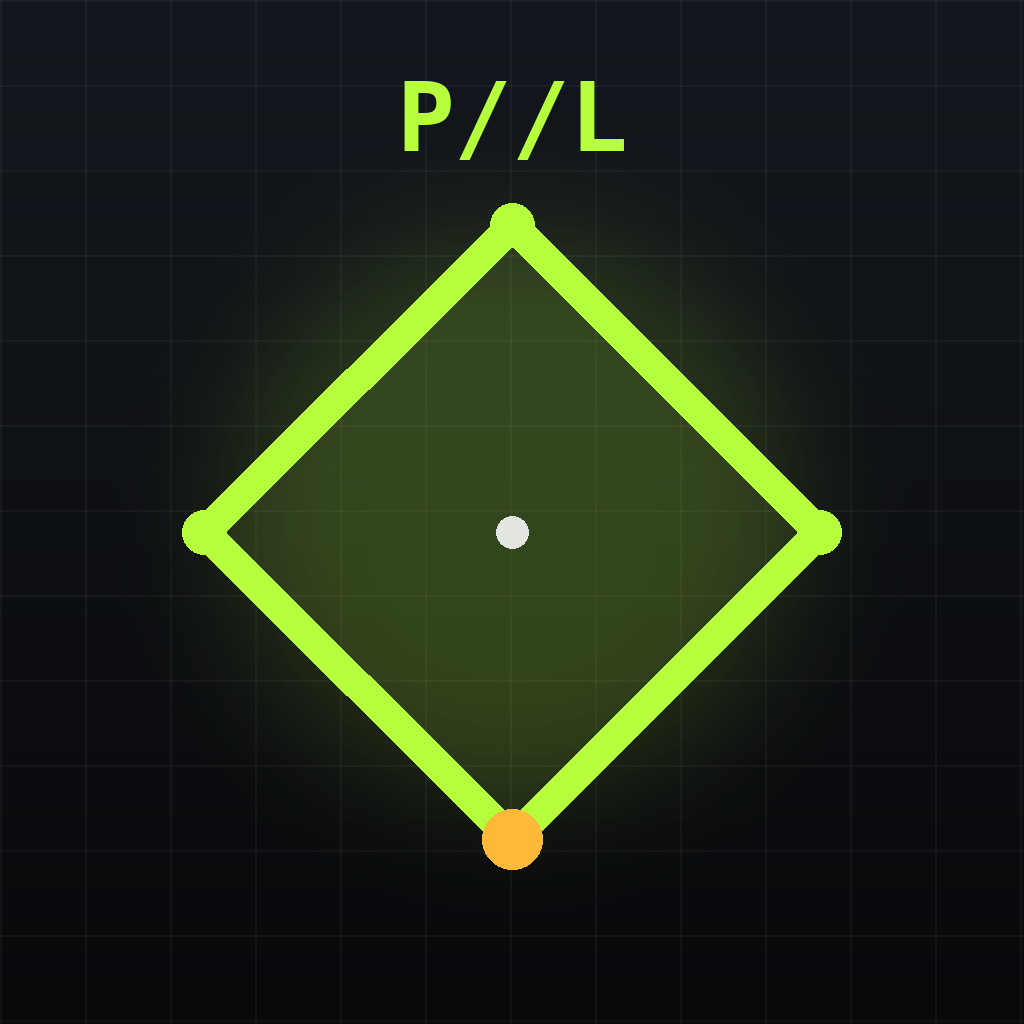
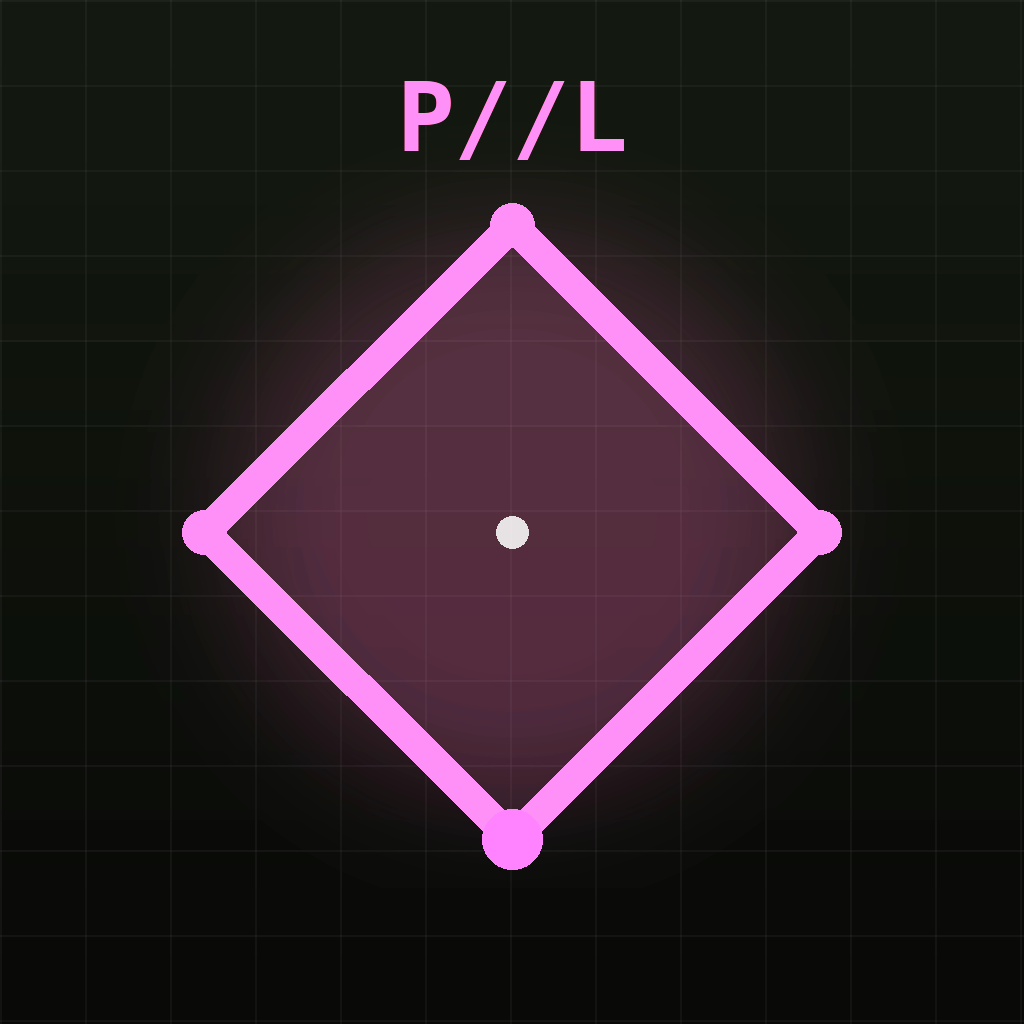
Brand: the whole site goes hot pink to match the llama footage
Josh: "the whole website should match the new color of the background.
it was green with the green llama." Surfaces hue 330, --color-pos
#ff5fb8, violet-magenta-pink brand gradient, every lime glow retinted,
Board/Ballpark tab tones, PWA theme colour, app icons recoloured. The
acc-teal/acc-green/acc-lime token names are kept as names.

diff --git a/app/globals.css b/app/globals.css
@@ -1,20 +1,21 @@
 @import "tailwindcss";
 
 /* ---------------------------------------------------------------------------
-   Parlay Lab design tokens — immersive deep-green liquid glass (the classic
-   Parlay Lab electric-green identity on the new immersive shell). Geist Sans
-   body, General Sans display. One accent per meaning: electric green =
+   Parlay Lab design tokens — immersive deep-pink liquid glass. Josh (2026-09-18):
+   "the whole website should match the new color of the background" — the llama
+   footage plays in its native pink, so the brand is hot pink now (was electric green). Geist Sans
+   body, General Sans display. One accent per meaning: hot pink =
    +EV/wins, red-orange = −EV/losses, gold = the Caesars layer, ice = live.
 --------------------------------------------------------------------------- */
 
 @theme {
-  /* surfaces — deep green-black stack */
-  --color-bg: hsl(160 45% 3%);
-  --color-surface: hsl(160 28% 7%);
-  --color-surface-2: hsl(160 23% 10%);
-  --color-surface-3: hsl(160 19% 13%);
-  --color-line: hsl(160 16% 16%);
-  --color-line-2: hsl(160 13% 22%);
+  /* surfaces — deep pink-black stack (hue 330, was 160) */
+  --color-bg: hsl(330 45% 3%);
+  --color-surface: hsl(330 28% 7%);
+  --color-surface-2: hsl(330 23% 10%);
+  --color-surface-3: hsl(330 19% 13%);
+  --color-line: hsl(330 16% 16%);
+  --color-line-2: hsl(330 13% 22%);
 
   /* text — warm off-white (hsl 40 6% 95%) */
   --color-text: hsl(40 6% 95%);
@@ -22,18 +23,20 @@
   --color-muted: hsl(40 5% 65%);
   --color-faint: hsl(40 4% 45%);
 
-  /* gradient accent (brand): teal → green → electric lime */
-  --color-acc-teal: #14b8a6;
-  --color-acc-green: #22c55e;
-  --color-acc-lime: #b6ff3d;
+  /* gradient accent (brand): violet → magenta → hot pink. The token NAMES are kept
+     (acc-teal / acc-green / acc-lime) because classes and tests key on them —
+     they are names, not colours, since 2026-09-18. */
+  --color-acc-teal: #a855f7;
+  --color-acc-green: #ec4899;
+  --color-acc-lime: #ff5fb8;
 
   /* semantics — the classic Parlay Lab set */
-  --color-pos: #b6ff3d; /* electric green — +EV, wins, edges */
+  --color-pos: #ff5fb8; /* hot pink — +EV, wins, edges (electric green until 2026-09-18) */
   --color-neg: #ff5c45; /* red-orange — −EV, losses */
   --color-gold: #c79a3b; /* muted gold — Caesars layer only */
   --color-live: #5cc8ff; /* ice blue — live/in-game marker */
   --color-cfb: #f5a524; /* amber — the College Football desk's accent (INSTRUCTION 38) */
-  --color-nfl: #4f8cff; /* blue — the NFL desk's accent (2026-09-08), distinct from CFB amber and MLB lime */
+  --color-nfl: #4f8cff; /* blue — the NFL desk's accent (2026-09-08), distinct from CFB amber and MLB pink */
 
   /* rounded, floating panels */
   --radius-panel: 20px;
@@ -88,8 +91,8 @@ body::before {
   z-index: -2;
   pointer-events: none;
   background:
-    radial-gradient(900px 480px at 82% -12%, rgba(182, 255, 61, 0.1), transparent 62%),
-    radial-gradient(700px 420px at -6% 4%, rgba(20, 184, 166, 0.09), transparent 58%),
+    radial-gradient(900px 480px at 82% -12%, rgba(255, 95, 184, 0.1), transparent 62%),
+    radial-gradient(700px 420px at -6% 4%, rgba(168, 85, 247, 0.09), transparent 58%),
     radial-gradient(1000px 560px at 50% 118%, rgba(199, 154, 59, 0.06), transparent 62%);
 }
 body::after {
@@ -116,9 +119,9 @@ body::after {
   letter-spacing: -0.01em;
 }
 
-/* ---- brand gradient text: teal → green → electric lime (to left) */
+/* ---- brand gradient text: violet → magenta → hot pink (to left) */
 .text-gradient {
-  background-image: linear-gradient(to left, #14b8a6, #22c55e, #b6ff3d);
+  background-image: linear-gradient(to left, #a855f7, #ec4899, #ff5fb8);
   -webkit-background-clip: text;
   background-clip: text;
   color: transparent;
@@ -148,7 +151,7 @@ body::after {
   border-radius: var(--radius-panel);
   box-shadow:
     inset 0 1px 1px color-mix(in srgb, var(--color-acc-lime) 28%, rgba(255, 255, 255, 0.1)),
-    0 0 34px -14px rgba(182, 255, 61, 0.22);
+    0 0 34px -14px rgba(255, 95, 184, 0.22);
 }
 
 /* ---- liquid glass (hero chips, CTAs, desk chooser cards): a faint dark tint with a
@@ -183,7 +186,7 @@ body::after {
 }
 
 /* ---- glow: elevation comes from light, not drop shadows */
-.glow-pos { box-shadow: 0 0 44px -8px rgba(182, 255, 61, 0.28), 0 0 0 1px rgba(182, 255, 61, 0.12); }
+.glow-pos { box-shadow: 0 0 44px -8px rgba(255, 95, 184, 0.28), 0 0 0 1px rgba(255, 95, 184, 0.12); }
 .glow-gold { box-shadow: 0 0 44px -8px rgba(199, 154, 59, 0.3), 0 0 0 1px rgba(199, 154, 59, 0.14); }
 
 /* ---- data tables ride the same lime glass (2026-08-09): the scrolling body was the
@@ -203,8 +206,8 @@ body::after {
 /* +EV rows get lit, not painted — green THROUGHOUT the row (2026-08-09: the old
    fade-to-transparent at 55% read as half green/half black; the wash now spans) */
 .ev-glow {
-  background: linear-gradient(90deg, rgba(182, 255, 61, 0.13), rgba(182, 255, 61, 0.05) 100%);
-  box-shadow: inset 2px 0 0 rgba(182, 255, 61, 0.65);
+  background: linear-gradient(90deg, rgba(255, 95, 184, 0.13), rgba(255, 95, 184, 0.05) 100%);
+  box-shadow: inset 2px 0 0 rgba(255, 95, 184, 0.65);
 }
 
 /* ---- odds cells flash on line movement */
@@ -327,7 +330,7 @@ body::after {
     border-color: color-mix(in srgb, var(--color-acc-lime) 36%, rgba(255, 255, 255, 0.1));
     box-shadow:
       inset 0 1px 1px color-mix(in srgb, var(--color-acc-lime) 30%, rgba(255, 255, 255, 0.1)),
-      0 0 42px -10px rgba(182, 255, 61, 0.32),
+      0 0 42px -10px rgba(255, 95, 184, 0.32),
       0 16px 30px -18px rgba(0, 0, 0, 0.65);
   }
 }
@@ -440,9 +443,9 @@ body::after {
 }
 
 /* ---- stat tile: one small focal number on its own glass, a corner glint in
-   the tile's tone (lime by default; .is-cfb / .is-gold / .is-neg recolor it) */
+   the tile's tone (pink by default; .is-cfb / .is-gold / .is-neg recolor it) */
 .stat-tile {
-  --tile-glint: rgba(182, 255, 61, 0.11);
+  --tile-glint: rgba(255, 95, 184, 0.11);
   position: relative;
   overflow: hidden;
   border-radius: 16px;
@@ -638,7 +641,7 @@ body::after {
   letter-spacing: -0.03em;
   line-height: 0.95;
   color: var(--color-pos);
-  text-shadow: 0 0 24px rgba(182, 255, 61, 0.35);
+  text-shadow: 0 0 24px rgba(255, 95, 184, 0.35);
 }
 .hero-price.is-cfb { color: var(--color-cfb); text-shadow: 0 0 24px rgba(245, 165, 36, 0.35); }
 .hero-price.is-nfl { color: var(--color-nfl); text-shadow: 0 0 24px rgba(79, 140, 255, 0.35); }

diff --git a/src/components/shell/AppShell.tsx b/src/components/shell/AppShell.tsx
@@ -63,7 +63,7 @@ function tint(hex: string, alpha: number) {
 const NAV: readonly NavItem[] = [
   { href: "/games", label: "Games", icon: IconGames, group: "top", mobile: true, tone: "#7DD3FC" },
   { href: "/stats", label: "Stats", icon: IconStats, group: "top", mobile: true, tone: "#C4B5FD" },
-  { href: "/board", label: "Board", icon: IconBoard, group: "top", mobile: true, tone: "#B6FF3D" },
+  { href: "/board", label: "Board", icon: IconBoard, group: "top", mobile: true, tone: "#FF5FB8" },
   { href: "/builder", label: "Builder", icon: IconBuilder, group: "top", mobile: true, tone: "#FCD34D" },
   { href: "/sharp", label: "The Sharp", icon: IconSharp, group: "top", mobile: false, tone: "#FDA4AF" },
   { href: "/simulator", label: "Simulator", icon: IconSim, group: "top", mobile: false, tone: "#67E8F9" },
@@ -74,7 +74,7 @@ const NAV: readonly NavItem[] = [
   { href: "/season", label: "Season Lab", icon: IconSeason, group: "top", mobile: false, tone: "#F5A524", cfbOnly: true },
   // INSTRUCTION 68 (2026-09-17, Josh: "a tab titled 'Ballpark Factor' that shows daily ballpark factor for every stadium") — MLB-only,
   // desktop rail + the phone's top-bar icon row (its fifth icon on the MLB desk, the width Season Lab already proved on CFB).
-  { href: "/ballpark", label: "Ballpark Factor", icon: IconPark, group: "top", mobile: false, tone: "#86EFAC", mlbOnly: true },
+  { href: "/ballpark", label: "Ballpark Factor", icon: IconPark, group: "top", mobile: false, tone: "#F9A8D4", mlbOnly: true },
   { href: "/ledger", label: "Ledger", icon: IconLedger, group: "bottom", mobile: true, tone: "#FDE68A" },
   { href: "/settings", label: "Settings", icon: IconSettings, group: "bottom", mobile: false, tone: "#D4D4D8" },
 ];
@@ -104,7 +104,7 @@ function Brand() {
 
 /* Tone opacities: idle label/icon sit at 70% / 55% of the tab's tone; the active
    state is the full tone, and the pill fill, its inset ring and the glow are the
-   same hue at low alpha — so each tab lights up in its own colour, never always lime. */
+   same hue at low alpha — so each tab lights up in its own colour, never always pink. */
 const IDLE_LABEL = 0.7;
 const IDLE_ICON = 0.55;
 

diff --git a/tests/nav.test.ts b/tests/nav.test.ts
@@ -203,7 +203,7 @@ describe("nav — tab-title colour (2026-09-05, Josh: \"Add color to the Tab tit
     expect(Object.fromEntries(nav.map((n) => [n.label, n.tone]))).toEqual({
       Games: "#7DD3FC",
       Stats: "#C4B5FD",
-      Board: "#B6FF3D",
+      Board: "#FF5FB8",
       Builder: "#FCD34D",
       "The Sharp": "#FDA4AF",
       Simulator: "#67E8F9",
@@ -212,7 +212,7 @@ describe("nav — tab-title colour (2026-09-05, Josh: \"Add color to the Tab tit
       // 2026-09-08 (INSTRUCTION 46): the CFB amber, --color-cfb — Season Lab is a CFB-only page
       "Season Lab": "#F5A524",
       // 2026-09-17 (INSTRUCTION 68): a mint, distinct from the Board's lime — an MLB-only page
-      "Ballpark Factor": "#86EFAC",
+      "Ballpark Factor": "#F9A8D4",
       Ledger: "#FDE68A",
       Settings: "#D4D4D8",
     });

diff --git a/app/page.tsx b/app/page.tsx
@@ -118,7 +118,7 @@ const DESKS: { sport: Sport; blurb: string }[] = [
 
 /** each desk's ring (when it is the current desk) and text accent — lime / amber / blue */
 const DESK_TONE: Record<Sport, { ring: string; text: string }> = {
-  mlb: { ring: "shadow-[inset_0_0_0_1px_rgba(182,255,61,0.55)]", text: "text-pos" },
+  mlb: { ring: "shadow-[inset_0_0_0_1px_rgba(255,95,184,0.55)]", text: "text-pos" },
   cfb: { ring: "shadow-[inset_0_0_0_1px_rgba(245,165,36,0.55)]", text: "text-cfb" },
   nfl: { ring: "shadow-[inset_0_0_0_1px_rgba(79,140,255,0.55)]", text: "text-nfl" },
 };

diff --git a/src/components/props/MarketNav.tsx b/src/components/props/MarketNav.tsx
@@ -57,7 +57,7 @@ function Segmented({ tab, onTab }: { tab: TabKey; onTab: (t: TabKey) => void }) 
             aria-selected={on}
             onClick={() => onTab(t.key)}
             className={`rounded-[8px] text-[11.5px] font-semibold transition-colors duration-(--dur-fast) ${
-              on ? "bg-pos/15 text-pos shadow-[inset_0_0_0_1px_rgba(182,255,61,0.35)]" : "text-muted hover:text-text"
+              on ? "bg-pos/15 text-pos shadow-[inset_0_0_0_1px_rgba(255,95,184,0.35)]" : "text-muted hover:text-text"
             }`}
           >
             {t.label}

diff --git a/src/components/ui/Glow.tsx b/src/components/ui/Glow.tsx
@@ -1,7 +1,7 @@
 import type { ReactNode } from "react";
 
 const HALOS = {
-  pos: "rgba(182,255,61,0.32)",
+  pos: "rgba(255,95,184,0.32)",
   gold: "rgba(199,154,59,0.34)",
   live: "rgba(92,200,255,0.30)",
 } as const;

diff --git a/app/layout.tsx b/app/layout.tsx
@@ -24,7 +24,7 @@ export const metadata: Metadata = {
 };
 
 export const viewport: Viewport = {
-  themeColor: "#040b09",
+  themeColor: "#0b0408",
   width: "device-width",
   initialScale: 1,
   viewportFit: "cover",

diff --git a/docs/session-handoff.md b/docs/session-handoff.md
@@ -13,7 +13,7 @@ are marked **IN-CONTEXT-ONLY-UNVERIFIED** with what resolves them. Supersedes th
 > origin` (`FETCH_EXIT=0`, full fetch, no `--depth=1`) — one claim per line, each carrying the
 > marker that `tests/sha-currency.test.ts` scores:**
 >
-> - **STATE-CLAIM 2026-09-17:** `origin/frontend-rebuild` = `504e241` (verified by `git rev-parse refs/remotes/origin/frontend-rebuild` after the backdrop-colour release, deployed as parlay-dwv67ilwt).
+> - **STATE-CLAIM 2026-09-18:** `origin/frontend-rebuild` = `afa68ad` (verified by `git rev-parse refs/remotes/origin/frontend-rebuild` before the pink-brand release).
 >   (read by `git rev-parse` this write)
 >   (read by `git rev-parse` this write, per the 08-19 fabricated-tail lesson)
 >
@@ -1175,6 +1175,8 @@ and learned football prediction weights remain separate unfinished work.
 **INSTRUCTION 70 (2026-09-17):** Josh: "It also ALWAYS needs to show player headshot and/or team logo next to every single pick. If its a team ml.rl then it only needs a team logo ie: Tigers ML. If its a player on the team it needs a player headshot and team logo ie: Kevin McGonigle over 1.5 H+R+RBI (needs Kevins headshot and Tigers logo next to pick)". Shipped: `clubFromLabel` (`src/lib/mlb-visuals.ts`) resolves a club from an ML/RL label (full name, nickname, or leading tag — OAK/ATH, CHW/CWS, ARI/AZ); `BoardLabel` draws the headshot + team badge for a "Name (TM)" label and the club logo disc for a team label; the Board's stamped/ALL table, the generated parlays, the parlay generator sheet and the ledger all draw through it. Tests: `tests/pick-marks.test.ts`.
 
 **INSTRUCTION 71 (2026-09-17):** Josh: "Some of the parlays showing up on 'Board' under generated parlays have 3 picks from the same game (ie: royals vs astros; 2 astros to hit HR & 1 royal to hit HR on 4 leg parlay w/ 1 Tiger to hit HR). Two picks from same game is fine if its needed because there aren't a ton of games or the picks are very high %/edge but 3 should be avoided. Also there should be an option there or parlay generator to see the edge % on any parlay that i personally generate/create using the metrics used by the engine to generate its own parlays. There needs to be as many parlays generated on the bottom of the board page as possible for variety. Even if its -95% (joking) i need more ability just to see more parlays even tho I wont take them so maybe it sways me away from a player i was going to take on my own because I see how negative they make HR or H+R+RBI parlays etc". Shipped: three dormant `SH_CFG` knobs in `buildParlaySet` (legacy L2654) — `parlayGameCap` (a ticket takes at most N legs from one game; the HR plan used to stack a game freely), `parlayMore` (the per-type and mixed plans repeat N extra times), `parlayCap` (per-player cap across a set, was 3) — armed by `applyParlayVariety(cfg)` (`PARLAY_VARIETY = {parlayGameCap: 2, parlayMore: 2, parlayCap: 5}`) in all three generators; unarmed the blob is byte-identical. Board: the generated-parlays section pages ("Show 48 more" / "Show all") instead of stopping at 24; a **My parlay** bar — a "+" on every board row and every generated-ticket leg, "→ mine" on a ticket copies all its legs — prices the tapped legs with the engine's own ticket arithmetic (selected book's odds multiplied out, engine true % multiplied out, EV = true × dec − 1, fair price), names legs the book doesn't price or the model can't rate and leaves them out, and says out loud that same-game correlation is not modelled (the engine's sim-joint repricing is server-side only) and when a third leg from one game exceeds the engine's own cap. Nothing is stored or ledgered. Tests: `tests/parlay-variety.test.ts`, `tests/my-parlay.test.ts`.
+
+**Brand colour (2026-09-18):** Josh: "I was saying the whole website should match the new color of the background. it was green with the green llama." The identity is hot pink now: surfaces hue 330, `--color-pos` #ff5fb8, brand gradient #a855f7 → #ec4899 → #ff5fb8, every lime glow in globals.css retinted, Board/Ballpark tab tones pink, PWA theme colour #0b0408, app icons recoloured. `--color-acc-teal/green/lime` keep their NAMES (classes + `tests/picks-surface` key on them) — they are names, not colours. −EV red-orange, gold, live ice-blue, CFB amber, NFL blue unchanged.
 
 **Backdrop colour (2026-09-18):** Josh: "Bring parlay lab background back to the original colors in this mp4. Pink instead of green for the most part." `VideoBackdrop` no longer applies `hue-rotate(120deg)`; the footage plays in its own pink/magenta glow with red neon goggles. The `.aurora` fallback gradients (globals.css) are pink/rose to match. Cosmetic only.
 

diff --git a/CLAUDE.md b/CLAUDE.md
@@ -102,6 +102,7 @@ Fourth bottom tab. Two engines share one slate collector (`shCollectSlate`: stat
   Claude mode still returns the legacy 15-pick shape — `shRender()` branches on `data.picks` vs `data.categories`.
 - **Claude mode (optional)** — system prompt **`prompts/mlb_prop_handicapper_prompt.md`** (fetched at runtime; sw serves `/prompts/` network-first) + slate as user message to `claude-opus-4-8` (adaptive thinking, `output_config.format` json_schema). **Key is user-supplied via ⚙ (localStorage `pl_claudekey`) — never embed one in source**; browser calls need the `anthropic-dangerous-direct-browser-access: true` header; handle `stop_reason` `refusal`/`max_tokens`. ~$0.30–0.60/run.
 Both produce the same JSON shape → `shRender()`; board persists per-day in `pl_sharp` (schema **v10**); picks add to the slip with model probability pre-filled as EST WIN % to drive the EV math.
+- **Brand is hot pink (2026-09-18).** Josh: "the whole website should match the new color of the background" — the llama footage plays in its native pink, so `--color-pos` is #ff5fb8, surfaces sit at hue 330 and the brand gradient is violet→magenta→hot pink. The `--color-acc-teal / acc-green / acc-lime` tokens and `text-pos`/`bg-pos` classes keep their NAMES (tests key on them) — a new green anywhere is a regression. −EV red-orange, gold, live ice-blue, CFB amber and NFL blue are unchanged; new UI must not reintroduce green as the default accent.
 - **MLB variety card + $350/day (INSTRUCTION 72, 2026-09-17).** `PAPER.daily` is $350 from `VARIETY_SINCE` (2026-09-18) and $150 before; **read it through `paperDaily(date)`** (lock card, refill, `/api/generate`, `deskPaperOf` in the merge kernel, banner) — never `PAPER.daily` bare, or a historic $150 day gets re-bounded at $350. Variety days lock shape V (`VARIETY_SHAPE`: market-typed slots — `hrr`, `team`, untyped, 1-leg straights); the `hrr` slot is the ONLY place an H+R+RBI-over ticket is admitted (rule 5 stands elsewhere); `buildStraightPool` composes 1-leg tickets from priced board rows so straights can be seated. Pre-2026-09-18 days re-fire exactly as before (P / $150) — the record is append-only.
 - **Daily ballpark factor (INSTRUCTION 68, 2026-09-17).** `src/lib/mlb/ballpark.ts` is the one park model (30 parks; temp × wind mph × direction × elevation, roof-aware). The legacy blob's `windNote` consults the `shParkDaily` hook only when `SH_CFG.parkDaily` is armed — `applyParkDaily(cfg)` + `bindParkDaily(engine)` in every generator, never one without the other; unarmed = byte-identical (fixtures never arm it). Any edit to the engine string means the engine-ship protocol (extract, `SERVED_ENGINE_SHA_VERIFIED`, `tests/served-verification.json` pending, post-deploy re-grep within 24h). The `/ballpark` tab is MLB-only (`mlbOnly` on the NAV entry).
 - **Sorting (INSTRUCTION 69, 2026-09-17).** A Grade column sorts on `gradeSortKey(rank, ev)` — never on `gradeRank` alone (unlettered rows all key to 0 and ties keep insertion order). Every `DataTable` that switches views passes `defaultSort` + `resetKey`, or the previous tab's sort direction leaks into the next.

diff --git a/docs/progress.md b/docs/progress.md
@@ -1,3 +1,7 @@
+# Progress — 2026-09-18 (brand goes pink to match the llama)
+
+- Josh: "I was saying the whole website should match the new color of the background. it was green with the green llama." The whole theme is retinted from electric green to hot pink: surfaces hue 160 → 330 (`--color-bg` … `--color-line-2`), `--color-pos` #b6ff3d → #ff5fb8, the brand gradient teal→green→lime → violet→magenta→hot pink (`--color-acc-*` token NAMES kept — classes and tests key on them), every lime rgba glow/glint/ev-glow/stat-tile shadow in globals.css, `Glow` pos halo, MarketNav ring, landing MLB ring, the Board tab tone (#FF5FB8) and Ballpark Factor tone (#F9A8D4), PWA theme/background colour #040b09 → #0b0408 (manifest + layout), and the three app icons recoloured (hue-shifted in place via ffmpeg; green originals kept in the session scratchpad). Red-orange −EV, gold, ice-blue live, CFB amber and NFL blue are untouched.
+
 # Progress — 2026-09-18 (backdrop back to the footage's original pink)
 
 - Josh: "Bring parlay lab background back to the original colors in this mp4. Pink instead of green for the most part." The `hue-rotate(120deg)` that recoloured `backdrop-llama.mp4` lime is removed from `VideoBackdrop` (no filter at all now); the CSS `.aurora` fallback under the video is retinted from green/teal to pink/rose so the loop gap and the no-autoplay still match the footage. No data or engine change.
